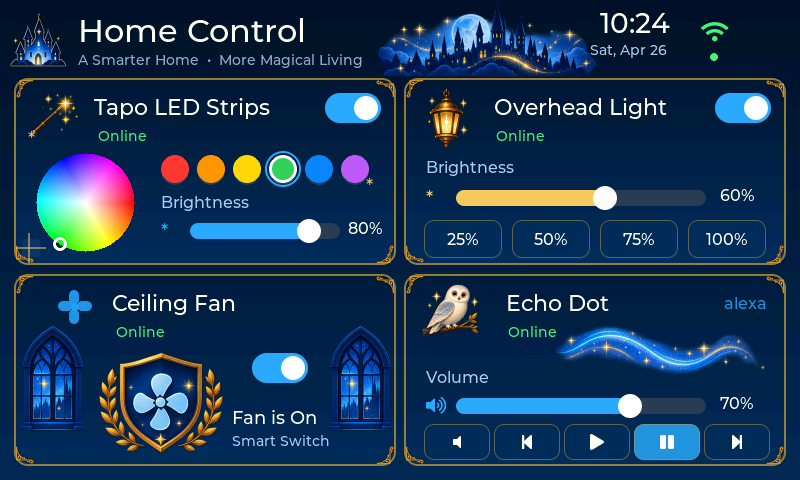
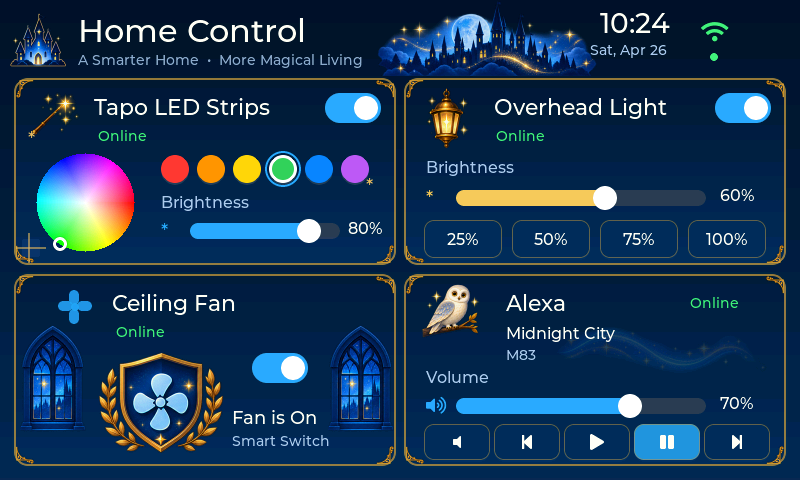
Show two-line now-playing metadata on Alexa cards in every theme
Rename Echo Dot to Alexa, remove the corner wordmark, and show independent title and artist/author marquee lines. Reposition status and soften background decoration for legibility. Support author metadata fallbacks and verify populated, long and empty metadata states across all four themes.

Changed region(s): [[0.625, 0.5938, 0.9375, 0.7812], [0.875, 0.625, 0.9688, 0.6562]]

diff --git a/main/ui.c b/main/ui.c
@@ -916,41 +916,35 @@ static void create_echo_card(lv_obj_t *root)
     lv_obj_t *card = make_card(root, 404, 274, 382, 192);
 
     const int title_x = T->magic ? 100 : 70;
-    const int status_x = T->magic ? 102 : 72;
+    const int status_x = 284;
 
     if (T->magic) {
         add_theme_sprite(card, THEME_ART_MAGIC_OWL, 16, 5, true);
-        add_theme_sprite(card, THEME_ART_MAGIC_WAVE, 147, 44, true);
+        lv_obj_t *wave = add_theme_sprite(card, THEME_ART_MAGIC_WAVE, 147, 44, true);
+        lv_obj_set_style_opa(wave, 45, 0);
     } else if (T->kittens) {
         add_theme_sprite(card, THEME_ART_KITTEN_CAPTION_ECHO, 307, 62, true);
         add_theme_sprite(card, THEME_ART_KITTEN_SIT, 314, 114, true);
     }
 
-    make_label(card, "Echo Dot", title_x, 15, &lv_font_montserrat_22, T->text);
+    make_label(card, "Alexa", title_x, 15, &lv_font_montserrat_22, T->text);
     if (!T->magic) {
         make_label(card, LV_SYMBOL_VOLUME_MAX, 22, 18,
                    &lv_font_montserrat_22, T->accent);
     }
-    make_status_dot(card, &s_echo_status, status_x, 48);
+    make_status_dot(card, &s_echo_status, status_x, 19);
 
-    lv_obj_t *alexa_mark =
-        make_label(card, "alexa", 318, 18, &lv_font_montserrat_16, T->accent);
-    lv_obj_set_style_text_opa(alexa_mark, 220, 0);
+    /* Two independent marquee lines keep long titles/authors inside the card. */
+    const int metadata_width = (T->kittens ? 302 : 364) - title_x;
+    s_alexa_now_playing = make_label(card, "Nothing playing", title_x, 48,
+                                     &lv_font_montserrat_16, T->text);
+    lv_obj_set_size(s_alexa_now_playing, metadata_width, 20);
+    lv_label_set_long_mode(s_alexa_now_playing, LV_LABEL_LONG_MODE_SCROLL_CIRCULAR);
 
-    if (!T->soccer && !T->kittens && !T->magic) {
-        s_alexa_now_playing = make_label(card, "Nothing playing", 153, 47,
-                                         &lv_font_montserrat_14, T->text);
-        lv_obj_set_width(s_alexa_now_playing, 210);
-        lv_label_set_long_mode(s_alexa_now_playing, LV_LABEL_LONG_MODE_SCROLL_CIRCULAR);
-
-        s_alexa_artist = make_label(card, "", 153, 67,
-                                    &lv_font_montserrat_14, T->muted);
-        lv_obj_set_width(s_alexa_artist, 210);
-        lv_label_set_long_mode(s_alexa_artist, LV_LABEL_LONG_MODE_SCROLL_CIRCULAR);
-    } else {
-        s_alexa_now_playing = NULL;
-        s_alexa_artist = NULL;
-    }
+    s_alexa_artist = make_label(card, "", title_x, 71,
+                                &lv_font_montserrat_14, T->muted);
+    lv_obj_set_size(s_alexa_artist, metadata_width, 18);
+    lv_label_set_long_mode(s_alexa_artist, LV_LABEL_LONG_MODE_SCROLL_CIRCULAR);
 
     make_label(card, "Volume", 20, 92, &lv_font_montserrat_16, T->muted);
     make_label(card, LV_SYMBOL_VOLUME_MAX, 20, 119,

diff --git a/tests/host/render.c b/tests/host/render.c
@@ -53,11 +53,21 @@ int main(int argc,char **argv) {
     assert(strcmp(lv_label_get_text(s_tapo_status),"Waiting")==0);
     ui_set_network_online(true);ui_set_mqtt_online(true);
     ui_apply_tapo_state(true,80,0,255,0);ui_apply_overhead_state(true,60);
-    ui_apply_fan_state(true);ui_apply_echo_state(70,false,false,"Nothing playing","");
+    ui_apply_fan_state(true);ui_apply_echo_state(70,false,false,"Midnight City","M83");
     pending_state_timer_cb(NULL);
     assert(lv_slider_get_value(s_tapo_slider)==80);
     assert(lv_slider_get_value(s_overhead_slider)==60);
     assert(lv_slider_get_value(s_echo_slider)==70);
+    assert(s_alexa_now_playing && s_alexa_artist);
+    assert(strcmp(lv_label_get_text(s_alexa_now_playing),"Midnight City")==0);
+    assert(strcmp(lv_label_get_text(s_alexa_artist),"M83")==0);
+    ui_apply_echo_state(70,false,true,"A long track title that must scroll within the card without covering neighboring artwork", "A long author or artist name that must stay on the second line");
+    pending_state_timer_cb(NULL);
+    assert(lv_label_get_long_mode(s_alexa_now_playing)==LV_LABEL_LONG_MODE_SCROLL_CIRCULAR);
+    assert(lv_label_get_long_mode(s_alexa_artist)==LV_LABEL_LONG_MODE_SCROLL_CIRCULAR);
+    ui_apply_echo_state(70,false,false,"", "");pending_state_timer_cb(NULL);
+    assert(strcmp(lv_label_get_text(s_alexa_now_playing),"Nothing playing")==0);
+    assert(strcmp(lv_label_get_text(s_alexa_artist),"")==0);
     assert(lv_obj_has_state(s_fan_switch,LV_STATE_CHECKED));
     assert(strcmp(lv_label_get_text(s_tapo_status),"Online")==0);
     assert(strcmp(lv_label_get_text(s_fan_state_label),"Fan is On")==0);
@@ -75,7 +85,7 @@ int main(int argc,char **argv) {
     assert(strcmp(lv_label_get_text(s_echo_status),"Offline")==0);
     ui_set_mqtt_online(true);ui_apply_tapo_state(true,80,0,255,0);
     ui_apply_overhead_state(true,60);ui_apply_fan_state(true);
-    ui_apply_echo_state(70,false,false,"Nothing playing","");pending_state_timer_cb(NULL);
+    ui_apply_echo_state(70,false,false,"Midnight City","M83");pending_state_timer_cb(NULL);
     lv_label_set_text(s_clock,"10:24");lv_label_set_text(s_date,"Sat, Apr 26");
     lv_obj_update_layout(lv_screen_active());
     assert_image_tree(lv_screen_active());

diff --git a/main/mqtt_bridge.c b/main/mqtt_bridge.c
@@ -331,6 +331,7 @@ static void handle_state_message(esp_mqtt_event_handle_t event)
         bool playing = json_bool(root, "playing", false);
         const char *title = json_string(root, "title");
         const char *artist = json_string(root, "artist");
+        if (!artist[0]) artist = json_string(root, "author");
         ESP_LOGI(TAG,
                  "MQTT APPLY alexa volume=%u muted=%d playing=%d title=\"%s\" artist=\"%s\"",
                  volume, muted, playing, title, artist);

diff --git a/home-assistant/README.md b/home-assistant/README.md
@@ -188,6 +188,11 @@ script.office_echo_announce
 A kitchen panel can use an entirely different set of entity IDs while sharing
 the same broker, credentials, base topic, and Home Assistant bridge.
 
+The Alexa card shows the current title and artist/author on two lines. Metadata
+comes from `media_title` and `media_artist`, falling back to `media_album_artist`
+or `media_author` for the second line. Direct MQTT state publishers may also use
+`author` when `artist` is empty. Missing titles display “Nothing playing.”
+
 The display provides Mute, Previous, Play, Pause and Next buttons. Play and Pause
 send explicit commands; Previous and Next call the media player track services.
 Track navigation depends on support from the selected media player and source.

diff --git a/docs/display-artwork.md b/docs/display-artwork.md
@@ -8,7 +8,10 @@ sliders, buttons, titles, clock and state values. It is not a flattened mockup.
 - Magic: castle, lantern, owl, windows, wand, wave, gold corners and fan crest.
 - Classic: supplied blue home tile and fan badge.
 
-Echo controls are Mute, Previous, Play, Pause and Next. Update the Home Assistant
+The Alexa card displays the current media title and artist/author on two separate
+scrolling lines in all themes. Its redundant corner wordmark is removed.
+
+Alexa controls are Mute, Previous, Play, Pause and Next. Update the Home Assistant
 MQTT package alongside firmware to enable track navigation.
 
 Each sprite is fitted without stretching. Decoration stays inside its parent
